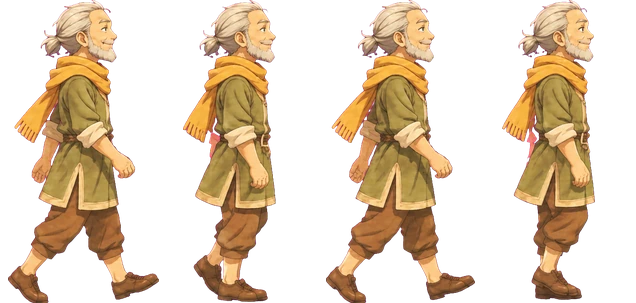
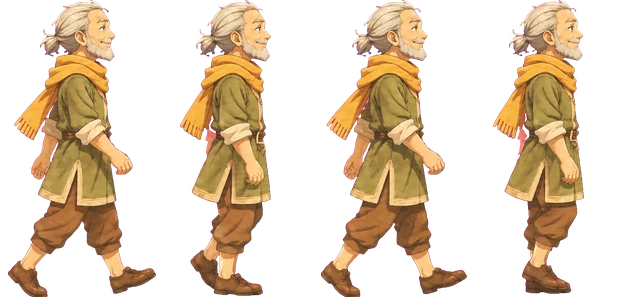
주민 걷기 시트 13종 완성 + 광장 군중 가끔 걷기
Claude-Session: https://claude.ai/code/session_01SwHSdbEEaZJxcHmirHV4co

diff --git a/games/autelia/js/prologue/scenes.js b/games/autelia/js/prologue/scenes.js
@@ -65,7 +65,13 @@ window.AU = window.AU || {};
   };  // 정식 그림이 있으면 그것, 없으면 이전 시제품 그림
   function drawCrowd(ctx, P) { // 축제 군중(정식 주민 시트): 가까운 곳에 NPC가 있어 피해서 배치, 깊이감을 위해 살짝 작고 위에 선다
     const L = LAY.plaza, c = P.v.cheer == null ? 0.12 : P.v.cheer, xs = [90, 200, 500, 760, 870, 960, 1200, 1300, 1400, 1500, 1580, 1830, 1940, 2050], sh = ["f", "d", "h", "a", "j", "a", "b", "i", "e", "m", "c", "g", "k", "l"].map((k, i) => (A.has("pc_villager_" + k + "_actions") ? k : "abc"[i % 3]));
-    xs.forEach((x, i) => { const bob = Math.abs(Math.sin(P.time * (3 + c * 5) + i * 1.7)) * (2 + c * 9); A.spr(ctx, "pc_villager_" + sh[i] + "_actions", c > 0.45 ? "cheer1" : "cheer2", x + (i % 2 ? 6 : -6), 566 - bob, i % 3 === 0 ? -1 : 1, 0.86); });
+    xs.forEach((x, i) => { const bob = Math.abs(Math.sin(P.time * (3 + c * 5) + i * 1.7)) * (2 + c * 9), bx = x + (i % 2 ? 6 : -6), face = i % 3 === 0 ? -1 : 1, wk = "pc_villager_" + sh[i] + "_walk";
+      // 환호가 한창일 때(c>0.45)가 아니면 가끔 이웃 사이 빈 곳으로 천천히 몇 걸음 걸었다 돌아옴(걷기 시트가 있는 주민만)
+      if (c <= 0.45 && A.has(wk)) { const gap = Math.min(xs[i] - (xs[i - 1] == null ? xs[i] - 200 : xs[i - 1]), (xs[i + 1] == null ? xs[i] + 200 : xs[i + 1]) - xs[i]), dist = Math.max(24, Math.min(80, gap / 2 - 14)), T = 12 + (i * 1.3) % 7, Wk = 3.6, t = P.time + i * 2.3, k = Math.floor(t / T), u = (t % T) / Wk, e = u >= 1 ? 1 : u * u * (3 - 2 * u), sgn = i % 2 ? -1 : 1, out = k % 2 === 0;
+        const off = sgn * dist * (out ? e : 1 - e);   // 짝수 번째 주기엔 나갔다가, 홀수 번째엔 제자리로 돌아옴(위치가 끊기지 않음)
+        if (u < 1) { const m = AU.PRO_ART.ch["villager_" + sh[i] + "_actions"], fr = ["walk1", "pass1", "walk2", "pass2"][Math.floor(u * Wk * 2.2) % 4]; A.spr(ctx, wk, fr, bx + off, 566, out ? sgn : -sgn, 0.86); return; }
+        A.spr(ctx, "pc_villager_" + sh[i] + "_actions", "cheer2", bx + off, 566 - bob, out ? sgn : -sgn, 0.86); return; }
+      A.spr(ctx, "pc_villager_" + sh[i] + "_actions", c > 0.45 ? "cheer1" : "cheer2", bx, 566 - bob, face, 0.86); });
   }
   D.pro_temple = { // BG-01 신전 건축 현장 / 완공 상태
     back(ctx, P) { const v = P.v, L = LAY.temple, fa = v.scaff == null ? 1 : v.scaff;

diff --git a/games/autelia/js/prologue/data.js b/games/autelia/js/prologue/data.js
@@ -30,7 +30,7 @@ window.AU = window.AU || {};
   AR.ch.player_m_combat = { frames: 6, names: ["attack1", "attack2", "strike", "spin", "hurt", "down"], separate: {}, cw: 463, ch: 394, standH: 300, foot: 231 };   // 본편 전투 동작
   AR.ch.player_f_combat = { frames: 6, names: ["attack1", "attack2", "strike", "spin", "hurt", "down"], separate: {}, cw: 453, ch: 389, standH: 300, foot: 226 };
   AR.ch.father_work = { frames: 4, names: ["reach", "hold", "walk1", "walk2"], separate: {}, cw: 300, ch: 330, standH: 300, foot: 150 };
-  for (const [k, cw] of [["b", 188], ["c", 159], ["d", 191], ["j", 153]]) AR.ch["villager_" + k + "_walk"] = { frames: 4, names: ["walk1", "pass1", "walk2", "pass2"], separate: {}, cw, ch: 303, standH: 302, foot: 301 };   // 마을 주민 걷기 시트(걷기 4칸)
+  for (const [k, cw, ch] of [["a", 186, 300], ["b", 188, 303], ["c", 156, 297], ["d", 199, 317], ["e", 148, 275], ["f", 160, 293], ["g", 160, 265], ["h", 138, 262], ["i", 220, 321], ["j", 148, 293], ["k", 156, 287], ["l", 111, 210], ["m", 182, 299]]) AR.ch["villager_" + k + "_walk"] = { frames: 4, names: ["walk1", "pass1", "walk2", "pass2"], separate: {}, cw, ch, standH: ch - 1, foot: ch - 2 };   // 마을 주민 걷기 시트(걷기 4칸)
   for (const [f, m] of Object.entries(AR.ch || {})) {
     AU.ASSETS["pc_" + f] = { path: "assets/prologue/ch/" + f + ".webp", frames: m.frames, optional: true };
     for (const n of Object.keys(m.separate || {})) AU.ASSETS["pc_" + f.split("_")[0] + "_" + n] = { path: "assets/prologue/ch/" + f.split("_")[0] + "_" + n + ".webp", optional: true };

diff --git a/tools/art/pack_walk.py b/tools/art/pack_walk.py
@@ -4,7 +4,7 @@
 마젠타 제거(+가장자리 번짐 제거), 4칸 분리, 기존 대기 그림과 같은 키(303)로 맞춤, 머리 x·발 바닥선을 칸마다 고정."""
 import sys, numpy as np
 from PIL import Image
-src, k = sys.argv[1], sys.argv[2]; H = 303
+src, k = sys.argv[1], sys.argv[2]; H = int(sys.argv[3]) if len(sys.argv) > 3 else 303   # H: 서 있을 때 인물 키(대기·환호 시트의 ch와 같게)
 im = np.array(Image.open(src).convert('RGB')).astype(float)
 r, g, b = im[..., 0], im[..., 1], im[..., 2]
 mag = np.clip((np.minimum(r, b) - g - 40) / 90.0, 0, 1)
@@ -30,4 +30,4 @@ for i, (c, hx, y1) in enumerate(crops):
     ox = int(round(W / 2 - hx)); oy = H - c.height - 1 - int(round((base - y1) * s))
     sheet.alpha_composite(c, (i * W + max(0, ox), max(0, oy)))
 sheet.save(f'assets/prologue/ch/villager_{k}_walk.webp', quality=92, method=6)
-print('frame', W, 'x', H, 'scale', round(s, 3), 'bbox', fr)
+open('/tmp/walk_meta.txt', 'a').write(f'{k} {W} {H}\n'); print('frame', W, 'x', H, 'scale', round(s, 3), 'bbox', fr)
